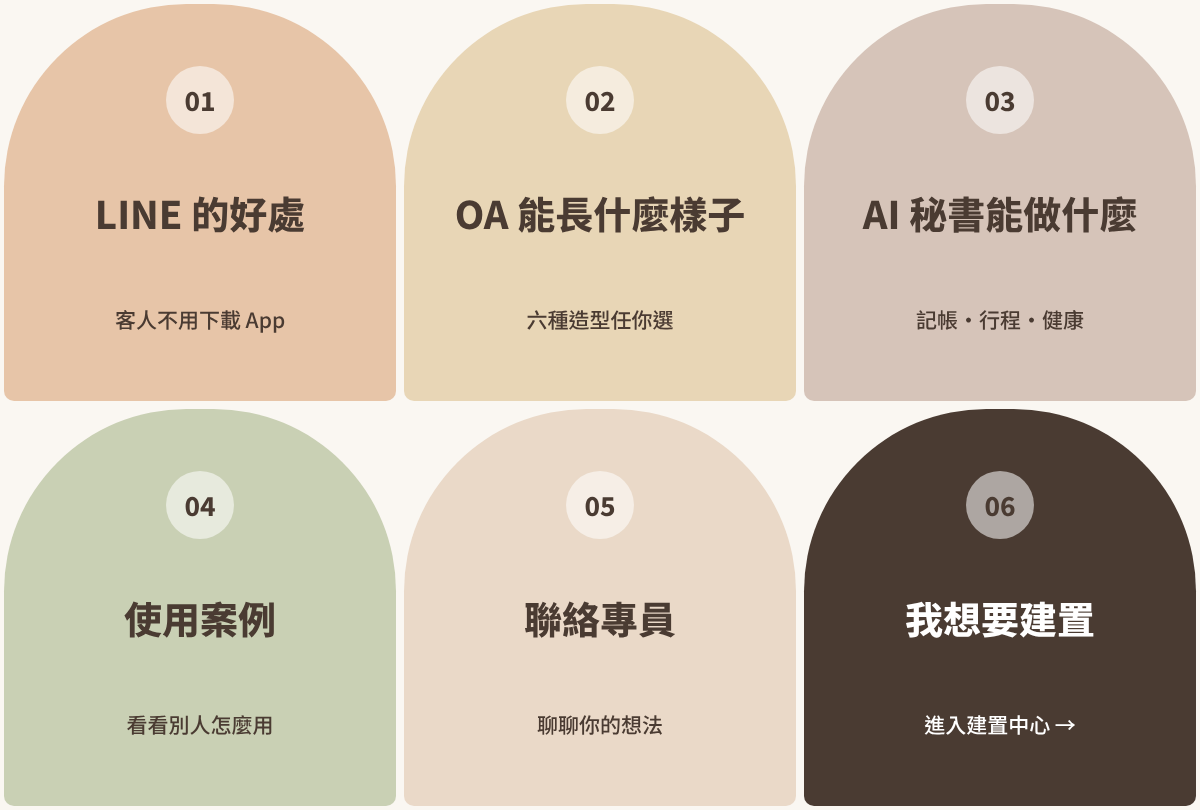
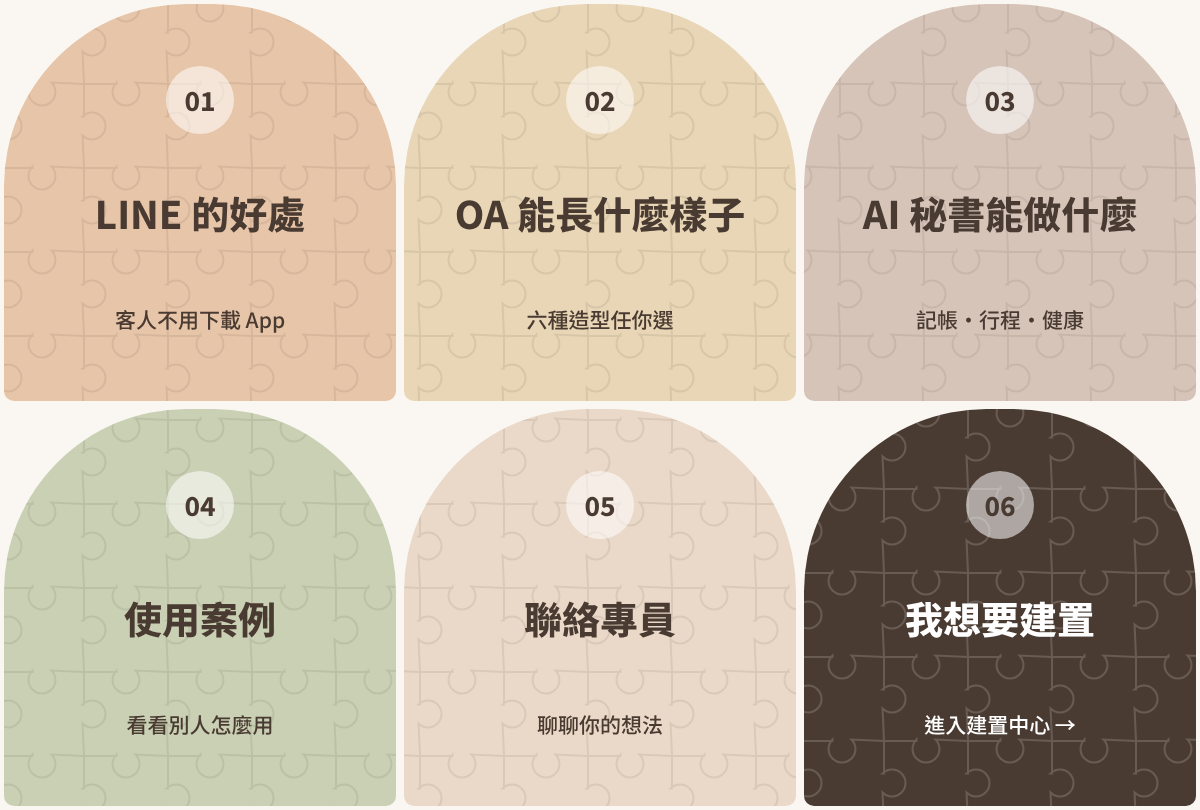
Showcase menu: jigsaw print inside the arch cells
Claude-Session: https://claude.ai/code/session_01SgizkEEMCB1E9MbFJWpLPi

diff --git a/scripts/aprico-menus.html b/scripts/aprico-menus.html
@@ -82,6 +82,42 @@
           }
         ctx.restore();
       }
+      // Jigsaw print: every piece draws only its right and bottom edge, each with a knob,
+      // so the left/top edges come from the neighbours and nothing is drawn twice.
+      function jigsaw(ctx, x0, y0, x1, y1, color) {
+        const s = 84,
+          r = s * 0.16,
+          k = r * 0.71;
+        ctx.strokeStyle = color;
+        ctx.lineWidth = 2;
+        ctx.beginPath();
+        for (let y = y0 - s; y < y1 + s; y += s)
+          for (let x = x0 - s; x < x1 + s; x += s) {
+            const cy = y + s / 2,
+              cx = x + s / 2;
+            ctx.moveTo(x + s, y);
+            ctx.lineTo(x + s, cy - k);
+            ctx.arc(x + s + r * 0.6, cy, r, Math.PI * 1.25, Math.PI * 0.75);
+            ctx.lineTo(x + s, y + s);
+            ctx.moveTo(x, y + s);
+            ctx.lineTo(cx - k, y + s);
+            ctx.arc(cx, y + s + r * 0.6, r, Math.PI * 1.25, Math.PI * 1.75, true);
+            ctx.lineTo(x + s, y + s);
+          }
+        ctx.stroke();
+      }
+      function puzzlePrint(ctx, line, light) {
+        jigsaw(ctx, 0, 0, W, H, line);
+        // The dark call-to-action cell: repaint it and use a light print instead.
+        ctx.save();
+        ctx.beginPath();
+        ctx.rect(800, 405, 400, 405);
+        ctx.clip();
+        ctx.fillStyle = '#4A3B32';
+        ctx.fillRect(800, 405, 400, 405);
+        jigsaw(ctx, 800, 405, W, H, light);
+        ctx.restore();
+      }
       window.render = async (name) => {
         const m = MENUS[name];
         await document.fonts.load('800 40px "Noto Sans TC"', m.cells.flat().join(''));
@@ -89,7 +125,17 @@
         const ctx = document.getElementById('c').getContext('2d');
         ctx.fillStyle = m.paper;
         ctx.fillRect(0, 0, W, H);
-        paintCells(ctx, areas, 6, m.shape, (a) => m.colors[a.index], W, H);
+        if (name === 'showcase') {
+          // Arch cells on a transparent layer, puzzle print kept inside them (source-atop).
+          const layer = document.createElement('canvas');
+          layer.width = W;
+          layer.height = H;
+          const lc = layer.getContext('2d');
+          paintCells(lc, areas, 6, m.shape, (a) => m.colors[a.index], W, H);
+          lc.globalCompositeOperation = 'source-atop';
+          puzzlePrint(lc, 'rgba(74,59,50,0.10)', 'rgba(255,255,255,0.16)');
+          ctx.drawImage(layer, 0, 0);
+        } else paintCells(ctx, areas, 6, m.shape, (a) => m.colors[a.index], W, H);
         if (name === 'build') {
           // Arch print inside each puzzle piece, then redraw the seams over it.
           for (const a of areas) arches(ctx, a, 'rgba(41,67,55,0.12)');
